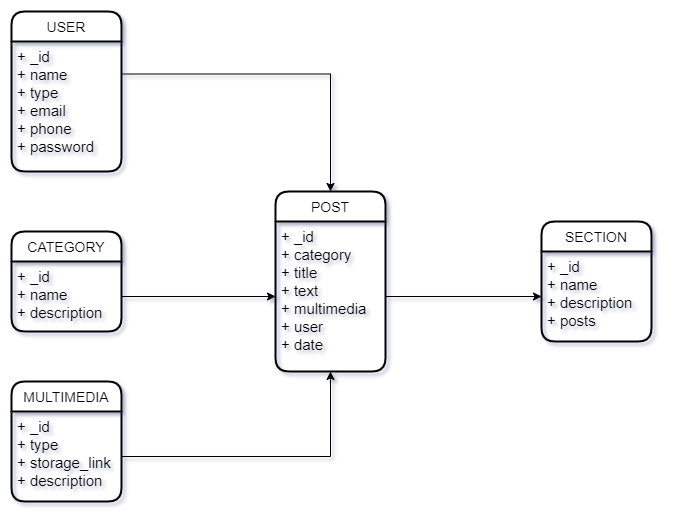
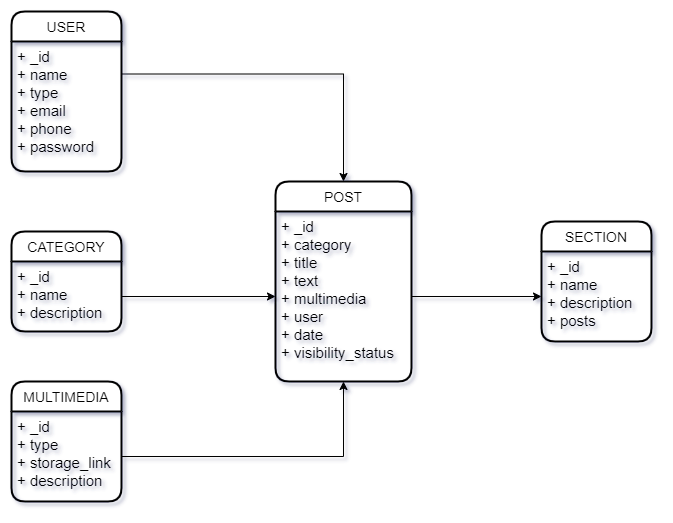
DB code. DB design improves

Changed region(s): [[0.4056, 0.3059, 0.6241, 0.7648]]

diff --git a/webapp-tcu532-ucr/src/models/post.js b/webapp-tcu532-ucr/src/models/post.js
@@ -1,0 +1,46 @@
+const mongoose = require('mongoose');
+const { Schema } = mongoose;
+
+const PostSchema = new Schema({
+    category: {
+        type: mongoose.Schema.Types.ObjectId,
+        ref: 'Category',
+    },
+    title: {
+        type: String, 
+        required: true
+    },
+    subtitle: {
+        type: String
+    },
+    text: {
+        type: String, 
+        required: true
+    },
+    multimedia: [
+        {
+            type: mongoose.Schema.Types.ObjectId, 
+            ref: 'Multimedia'
+        }
+    ],
+    user: {
+        type: mongoose.Schema.Types.ObjectId,
+        ref: 'User',
+    },
+    published_date: {
+        type: Date,
+        required: true
+    },
+    updated_date: {
+        type: Date,
+        default: Date.now,
+    },
+    displayed: {
+        type: Boolean, 
+        default: true
+    },
+}, {
+    timestamps: true
+});
+
+module.exports = mongoose.model('Post', PostSchema);

diff --git a/webapp-tcu532-ucr/src/models/user.js b/webapp-tcu532-ucr/src/models/user.js
@@ -1,0 +1,30 @@
+const mongoose = require('mongoose');
+const { Schema } = mongoose;
+// When the database design was complete:
+//https://youtu.be/DqpL5UtJHus?t=2765
+
+const UserSchema = new Schema({
+    name: {
+        type: String, 
+        required: true
+    },
+    type: {
+        type: String, 
+        required: true
+    },
+    email: {
+        type: String, 
+        required: true
+    },
+    phone: {
+        type: Number
+    },
+    password: {
+        type: String, 
+        required: true
+    }
+}, {
+    timestamps: true
+});
+
+module.exports = mongoose.model('User', UserSchema);

diff --git a/webapp-tcu532-ucr/src/models/multimedia.js b/webapp-tcu532-ucr/src/models/multimedia.js
@@ -1,0 +1,24 @@
+const mongoose = require('mongoose');
+const { Schema } = mongoose;
+
+const MultimediaSchema = new Schema({
+    name: {
+        type: String, 
+        required: true
+    },
+    type: {
+        type: String, 
+        required: true
+    },
+    storage_link: {
+        type: String, 
+        required: true
+    },
+    description: {
+        type: String
+    },
+}, {
+    timestamps: true
+});
+
+module.exports = mongoose.model('Multimedia', MultimediaSchema);

diff --git a/webapp-tcu532-ucr/src/models/section.js b/webapp-tcu532-ucr/src/models/section.js
@@ -1,0 +1,22 @@
+const mongoose = require('mongoose');
+const { Schema } = mongoose;
+
+const SectionSchema = new Schema({
+    name: {
+        type: String, 
+        required: true
+    },
+    description: {
+        type: String,
+    },
+    posts: [
+        {
+            type: mongoose.Schema.Types.ObjectId, 
+            ref: 'Post'
+        }
+    ],
+}, {
+    timestamps: true
+});
+
+module.exports = mongoose.model('Section', SectionSchema);

diff --git a/webapp-tcu532-ucr/src/models/category.js b/webapp-tcu532-ucr/src/models/category.js
@@ -1,0 +1,16 @@
+const mongoose = require('mongoose');
+const { Schema } = mongoose;
+
+const CategorySchema = new Schema({
+    name: {
+        type: String, 
+        required: true
+    },
+    description: {
+        type: String,
+    },
+}, {
+    timestamps: true
+});
+
+module.exports = mongoose.model('Category', CategorySchema);
